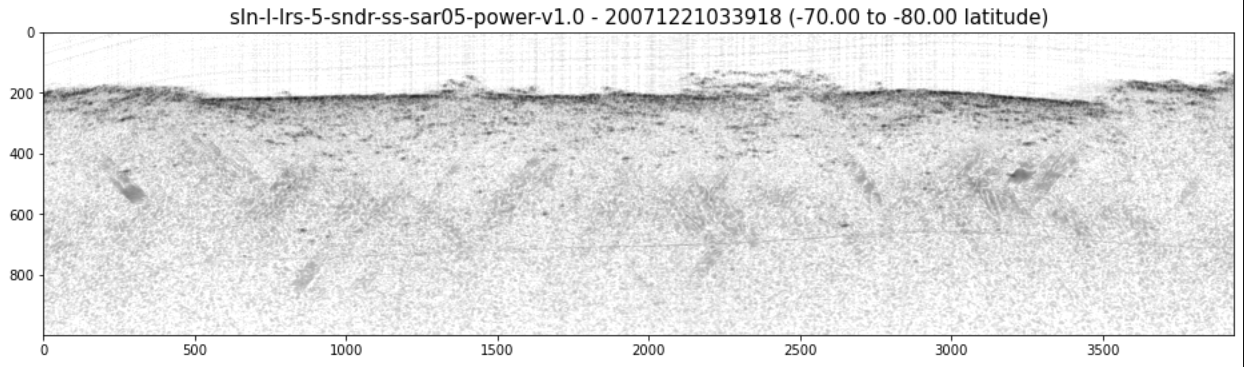
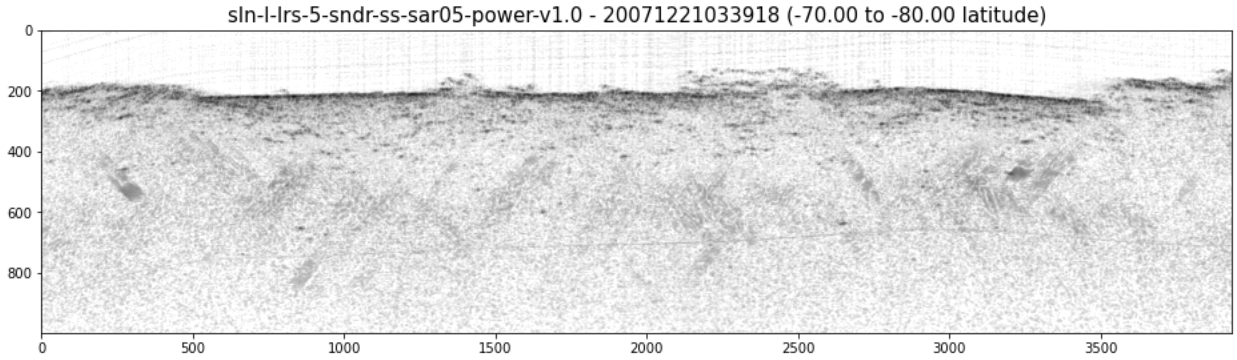
surface processing added

Changed region(s): [[0.0, 0.0, 1.0, 0.9778], [0.4915, 0.4278, 0.5222, 0.4583], [0.4915, 0.3361, 0.5222, 0.3667]]

diff --git a/Classdef.py b/Classdef.py
@@ -143,8 +143,39 @@ class Env:
             aux, img = read.img(img_filename, lbl_filename)
             out = aux.to_dict(orient='list')
             out.update({'IMG':img})
+            out.update({'IMG_pdb':self.signalconversion(product, name, img)})
             return out#.update({'DATA':img})
 
+        
+    def aux_data(self, product, name):
+        """ Read aux data. It concatenates all columns from the files
+            in the aux folder 
+        
+        ARGUMENT
+        --------
+        product: string
+            product full name or substring (e.g., sar05)
+        name: string
+            file identifier (e.g., '20071221033918')
+            
+        RETURN
+        ------
+        
+        """
+        product = self.product_match(product)
+        files = self.files[product][name]
+        aux_filenames = [file for file in files if '/aux/' in file]
+        
+        if aux_filenames:
+            out = pd.DataFrame()
+            for aux_filename in aux_filenames:
+                df = pd.read_csv(aux_filename)
+                out = pd.concat([out, df], axis=1)
+            return out.to_dict(orient='list')
+        else:
+            logging.warning('No aux data for ' + product + ' ' + name)
+   
+        
     def tracks_intersecting_latlon_box(self, boxlats, boxlons, sampling=10e3,
                                        download=False):
         """ Return identifiers of tracks crossing a box bounded by latitudes
@@ -279,7 +310,7 @@ class Env:
                      archive=True, delete=delete, **kwargs)
 
             
-    def plt_rdg(self, product, name, latlim=[-80, -70], ax=None, ylim=None,
+    def plt_rdg(self, product, name, ax=None, latlim=None,
                 title=None, **kwargs):
         """ Plot a LRS radargram
         
@@ -302,17 +333,29 @@ class Env:
         
         RETURN
         ------
-        Radargram array
+        rdg: array
+            Radargram
+        idx: Binary vector
+            valid x bin
         
         """
         # Data
         # ----
     
-        aux = self.run('aux', product, name)
-        xlim = np.sort((np.where(aux['latitude'] <= latlim[0])[0][0], 
-                        np.where(aux['latitude'] <= latlim[1])[0][0]))
-        img = self.orig_data(product, name)['IMG'][:,xlim[0]:xlim[1]]
+        img = self.orig_data(product, name)['IMG_pdb']
+        aux = self.aux_data(product, name)
+        #xlim = np.sort((np.where(aux['latitude'] <= latlim[0])[0][0], 
+        #                np.where(aux['latitude'] <= latlim[1])[0][0]))
+        latitude = np.array(aux['latitude'])
+        if not latlim:
+            latlim = [latitude[0], latitude[-1]]
+        idx = self.wherelat(product, name, latlim)
     
+        #idx = (latitude >= np.min(latlim)) & (
+        #       latitude <= np.max(latlim))
+        id1 = (np.where(idx)[0])[0]
+        id2 = (np.where(idx)[0])[-1]
+        #img = self.orig_data(product, name)['IMG'][:,xlim[0]:xlim[1]]
     
         # Plot
         # ----
@@ -321,18 +364,69 @@ class Env:
             fig, ax = plt.subplots(figsize=(16,5))
         
         ax.imshow(img, **kwargs)
+        ax.set_xlim(id1, id2)
         
-        lat1 = aux['latitude'][xlim[0]]
-        lat2 = aux['latitude'][xlim[1]]
+        #lat1 = aux['latitude'][xlim[0]]
+        #lat2 = aux['latitude'][xlim[1]]
         
-        if ylim:
-            ax.set_ylim(ylim)    
-        if not title:
-            title = f'{product} - {name} ({lat1:.2f} to {lat2:.2f} latitude)' 
-        ax.set_title(title, fontsize=15)
+        
+        #if not title:
+        #    title = f'{product} - {name} ({latlim} latitude)' 
+        #ax.set_title(title, fontsize=15)
     
-        return img
+        return img, idx
 
+    
+    def signalconversion(self, product, name, dn, calval=0):
+        """ Convert the orig LRS signal to power. Note that the coefficients 
+        of conversion varies for each processing and track. The coefficients 
+        are extracted from the lbl files.
+    
+        ARGUMENTS
+        ---------
+        dn: vector of float
+            signal from the orig data
+        calval: float
+            Calibration value in dB
+        """
+        
+        # Find lbl file name
+        files = self.files[product][name]
+        try:
+            lbl_filename = [file for file in files if '.lbl' in file][0]
+        except IndexError:
+            logging.warning('No orig data for ' + product + ' ' + name)
+        
+        # Get Conversion coefficients 
+        line = read.lbl_keyword(lbl_filename, 'Pmax', fullline=True)
+        Pmax = float(line.split(' P')[1][:-1].split(' = ')[-1])
+        Pmin = float(line.split(' P')[2][:-1].split(' = ')[-1])
+        
+        # Conversion
+        pdb = (255-dn)*(Pmax-Pmin)/255+Pmin
+        out = pdb
+        return out
+        
+        
+    def wherelat(self, product, name, lim):
+        """ return a binary vector indicating where latitudes 
+        are within the indicated limits
+    
+        ARGUMENTS
+        ---------
+        lim: [float, float]
+            latitude limits
+        
+        RETURN
+        ------
+        Binary vector
+        """
+        aux = self.aux_data(product, name)
+        vec = np.array(aux['latitude'])
+        out = (vec >= np.min(lim)) & (vec <= np.max(lim))
+        
+        return out
+    
 
 if __name__ == "__main__":
     # execute only if run as a script

diff --git a/processing.py b/processing.py
@@ -1,5 +1,7 @@
-from . import read
+import numpy as np
 import pandas as pd
+import subradar as sr
+from . import read
 
 
 def aux(data, **kwargs):
@@ -23,3 +25,37 @@ def aux(data, **kwargs):
     df['range0'] = data['DISTANCE_TO_RANGE0']
     
     return df
+
+
+def srf(data, method='mouginot2010', winsize=300):
+    """ Create surface data from the headers in the orignal data
+    
+    ARGUMENTS
+    ---------
+    data: dict
+        Classdef.Env.orig_data()
+    kwargs: tuple
+        arguments from subradar.surface.detector
+    """
+    df = pd.DataFrame()
+    
+    # Data
+    img = np.array(data['IMG_pdb'])
+    
+    if method == 'grima2012':
+        img_for_detection = 10**(img/20)
+    else:
+        img_for_detection = 10**(img/20)
+        
+    y = sr.surface.detector(img_for_detection, axis=1, 
+                            y0=np.zeros(np.shape(img)[1])+200, 
+                            winsize=winsize, 
+                            method=method)
+    
+    y = np.flip(y) #surface.detector returns y backwards?
+    y = [int(val) for val in y]
+    
+    pdb = [img[val, i] for i, val in enumerate(y)]
+    amp = [10**(val/20) for val in pdb]
+    
+    return {'y':y, 'pdb':pdb, 'amp':amp}

diff --git a/read.py b/read.py
@@ -1,7 +1,7 @@
 import numpy as np
 import pandas as pd
 
-def lbl_keyword(lbl_filename, keyword):
+def lbl_keyword(lbl_filename, keyword, fullline=False):
     """Output a keyword value from a lbl file
     
     ARGUMENTS
@@ -10,6 +10,8 @@ def lbl_keyword(lbl_filename, keyword):
         lbl filename
     keyword: string
         keyword to read
+    fullline: Binary
+        If True, will output the first entire line where a string match is found
     
     RETURN
     ------
@@ -20,7 +22,10 @@ def lbl_keyword(lbl_filename, keyword):
 
     for line in lines:
         if keyword in line:
-            value = "".join(line.split()).split('=')[-1].replace('"', '')
+            if fullline:
+                value = line
+            else:
+                value = "".join(line.split()).split('=')[-1].replace('"', '')
     
     # Set correct output type
     try:
@@ -31,6 +36,7 @@ def lbl_keyword(lbl_filename, keyword):
     except  ValueError:
         return value
 
+    
 def img(img_filename, lbl_filename):
     """Read a binary LRS file
     
@@ -43,6 +49,7 @@ def img(img_filename, lbl_filename):
     
     RETURN
     ------
+    header, img
     """
     
     #---------

diff --git a/README.md b/README.md
@@ -102,7 +102,7 @@ The repository provides a limited function to plot a radargram:
 product = 'sln-l-lrs-5-sndr-ss-sar05-power-v1.0'
 name = '20071221033918'
 
-img = LRS.plt_rdg(product, name, latlim=[-80, -70], cmap='gray', vmin=0, vmax=100)
+img = LRS.plt_rdg(product, name, latlim=[-80, -70], cmap='gray_r', vmin=-10, vmax=40)
 ```
 ![Plot](./plt_rdg.png?raw=true)
 
@@ -120,11 +120,14 @@ _ = LRS.run('aux', 'sar05', '20071221033918', archive=True, delete=True)
 
 ### Surface Echo
 
-TODO
+To get the surface echo coordinate and power
+```bash
+srf = lrs.processing.srf(data, method='mouginot2010')
+```
 
 ### Batch processing
 
-To run a processing on all the available data using 8 cores in parallel:
+To run a processing on all the available data using 8 cores in parallel
 
 ```bash
 LRS.run_all('aux', 'sar05', delete=False, n_jobs=8)
@@ -134,7 +137,7 @@ LRS.run_all('aux', 'sar05', delete=False, n_jobs=8)
 
 ### From Orig Labels
 
-This function uses the min and max coordinates in the label files of the original LRS data. It is approximate but fast. Below an example to search for tracks crossing a box bounded by longitude and latitudes (over Schrodinger crater):
+This function uses the min and max coordinates in the label files of the original LRS data. It is approximate but fast. Below an example to search for tracks crossing a box bounded by longitude and latitudes (over Schrodinger crater)
 
 ```bash
 tracks = LRS.tracks_intersecting_latlon_box([-80, -70], [110, 155], sampling=100e3)
